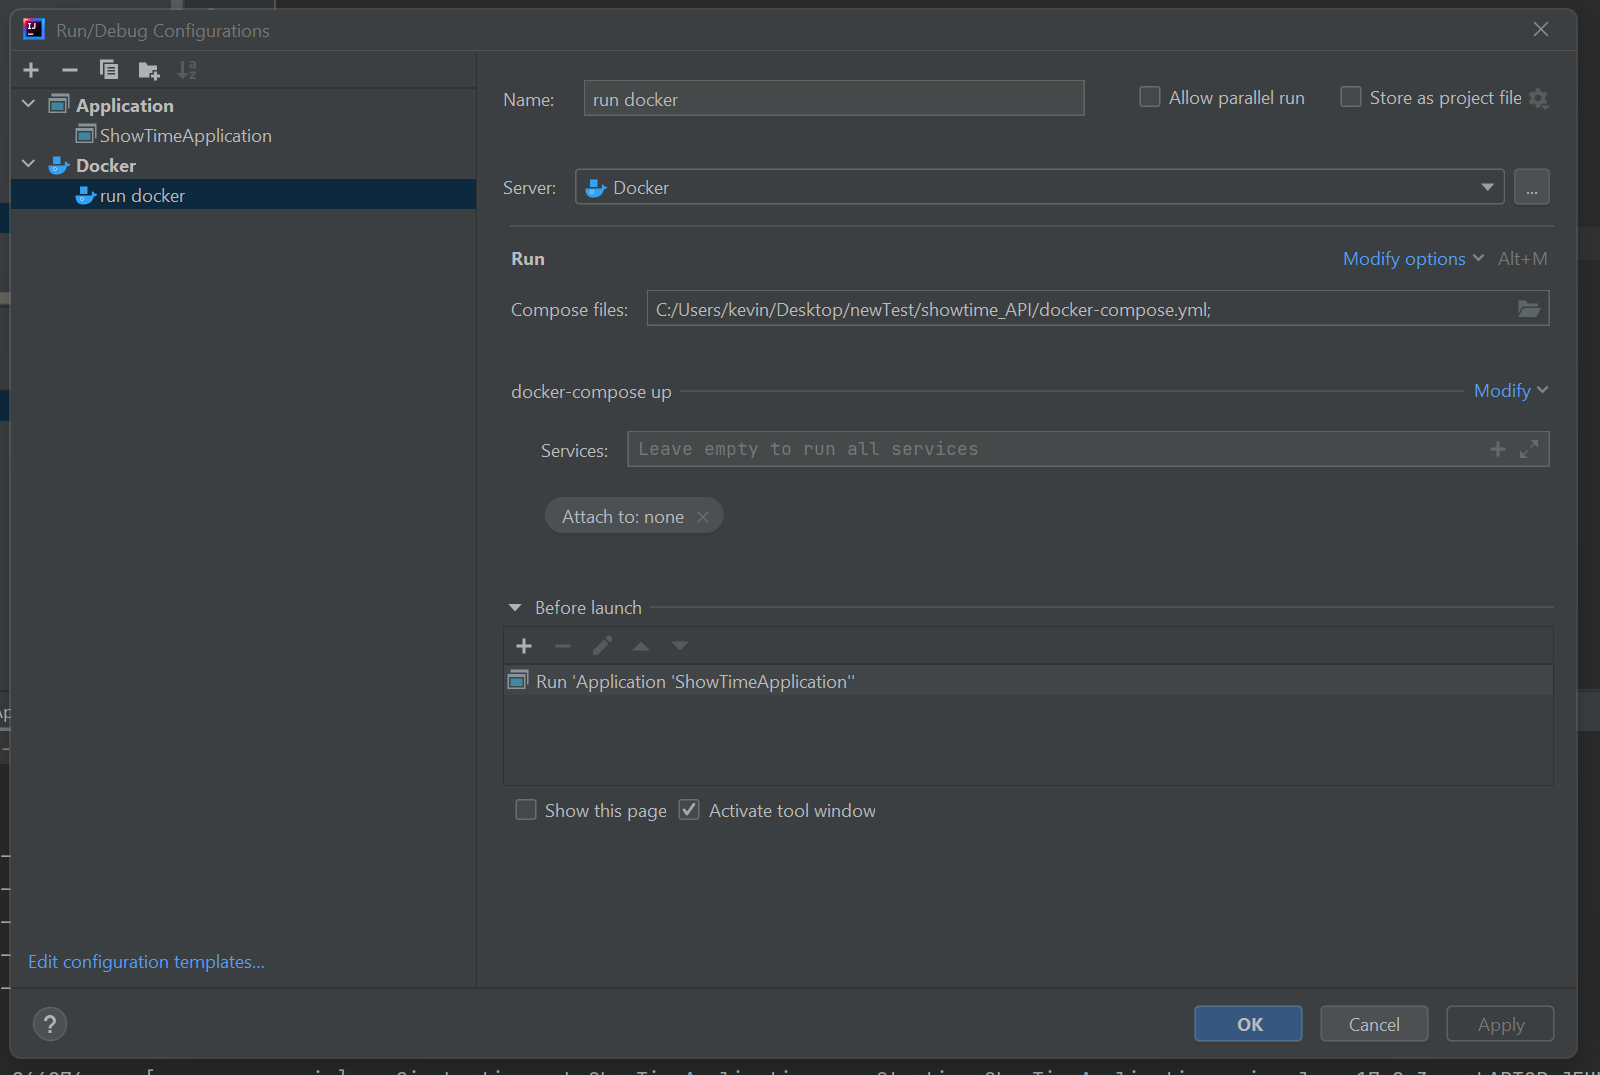
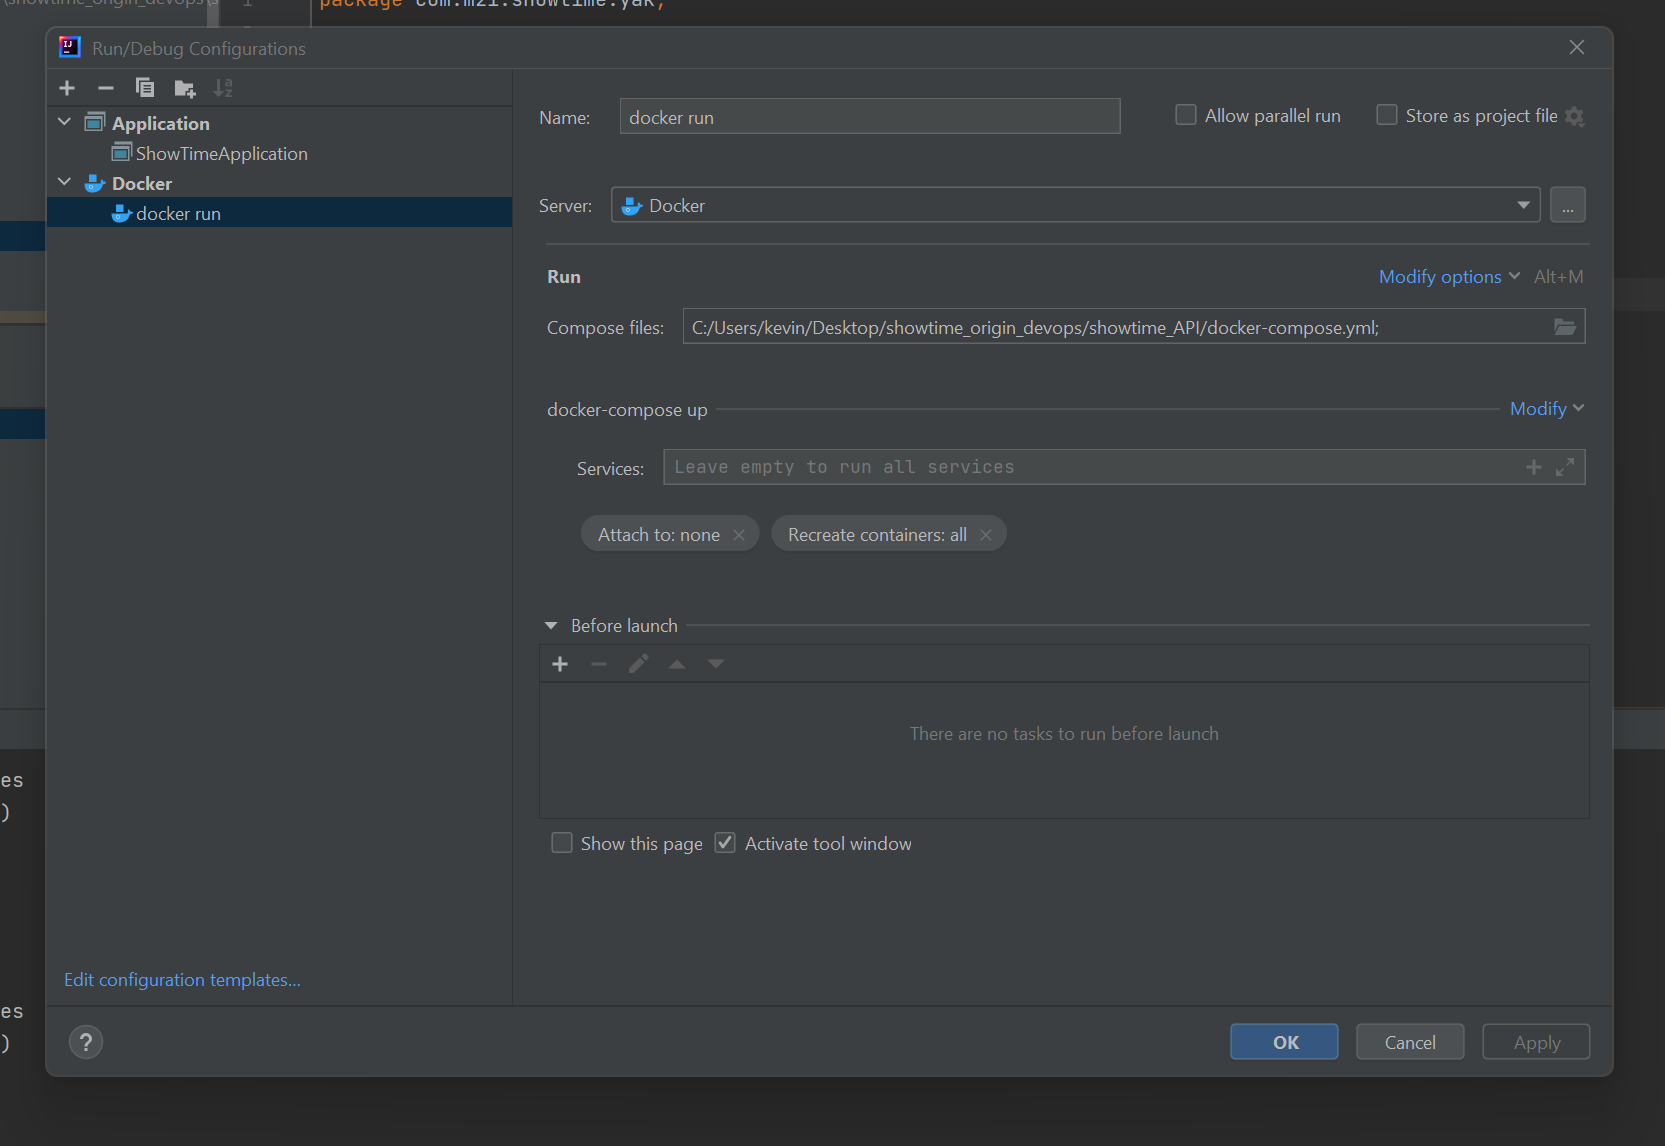
maj devops v2

diff --git a/readme.md b/readme.md
@@ -54,6 +54,9 @@
 - copier la config en remplaçant le chemin absolue du fichier composer.yml par le votre : 
 ![](https://github.com/achot-barseghyan/showtime_API/blob/devops2/readme-img/copy_following_config.png)
 
+- dans la rubrique Modify de la ligne docker-compose up rajouter les option < Attach to: none > et < Recreate containers : all > :
+![](https://github.com/achot-barseghyan/showtime_API/blob/devops2/readme-img/add_compose_option.png)
+
 - puis aller dans la liste de gauche cliquer sur Application puis ShowTimeApplication 
 
 - sur la droite de la fenetre cliquer sur Modify options et tout en bas cliquer sur < Add before launch task >:
@@ -62,6 +65,7 @@
 
 - Ensuite dans la liste des Before launch ajouter Build project et Run Another Configuration > 'docker run' (ou le nom que vous aurez donné) 
 ![](https://github.com/achot-barseghyan/showtime_API/blob/devops2/readme-img/run_another_config_before_showtime_application_task.png)
+
 - vous pouvez désormais lancer ShowTimeApplication 
 - patientez environ 30s max le temps que l'application soit disponible sur le localhost:89
 
